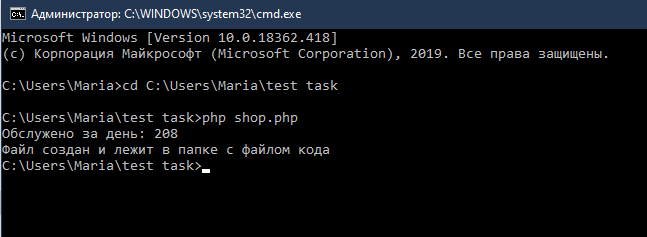
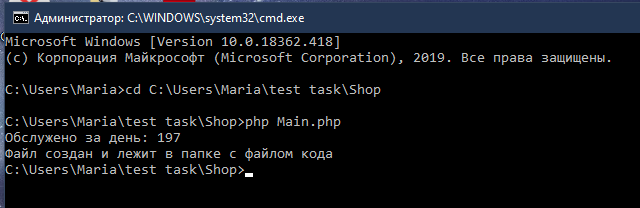
Проект разбит на классы и файлы. Количество покупателей в минуту может быть больше одного

Changed region(s): [[0.0, 0.0, 1.0, 1.0]]

diff --git a/Shop/Main.php b/Shop/Main.php
@@ -1,0 +1,55 @@
+<?php
+namespace Shop;
+include 'Constants.php';
+include 'Customer_flow.php';
+include 'Customer.php';
+include 'Log.php';
+
+$customer_flow = Customer_flow::get_customer_flow();									//генерируется поток покупателей
+
+for($current_time = 1; $current_time <= 60 * DURATION_OF_WORKING_DAY; $current_time++)	//каждая итерация == минута рабочего дня
+{
+    $total_customers_per_minute = array_shift($customer_flow);							//сколько покупателей придет в текущую минуту
+    
+	for($i = 0; $i < $total_customers_per_minute; $i++)									//создается и инициализируется покупатель
+	{
+		$customer = new Customer(rand(1, 5));											
+		++$total_customers_per_day;														
+		$customer->initialize($kassir, $customer);
+	}
+	
+	for($id = 0; $id < count((array)$kassir); $id++)									//перебираются все кассиры	
+	{
+		if($kassir[$id]->queue)															//если очередь не пустая
+		{
+			if((!$kassir[$id]->serves && !$kassir[$id]->expects) || 
+			   ($kassir[$id]->serves == $current_time) || 
+			   $kassir[$id]->expects)
+			{
+				$first_in_queue = array_shift($kassir[$id]->queue);						//кассир берет первого покупателя из очереди
+				$kassir[$id]->expects = 0;												//касса не в режиме ожидания
+				//высчитывается время обслуживания + текущее
+				$kassir[$id]->serves = $first_in_queue->number_of_goods * PICK + TIME_TO_GET_PAY + $current_time;
+			}
+		}
+		else													
+		{
+			if($kassir[$id]->serves == $current_time)
+			{
+				$kassir[$id]->expects = TIMEOUT + $current_time;						//высчитывается время ожидания покупателей	
+				$kassir[$id]->serves = 0;
+			}
+			if($kassir[$id]->expects == $current_time)					
+			{
+				array_splice($kassir, $id, 1);						
+			}
+		}
+	 }
+	
+	if(!($current_time % 60))															//каждый час выводится текущий результат
+	{
+        Log::output($current_time, $kassir);
+	}
+}
+echo "Обслужено за день: ", $total_customers_per_day, "\nФайл создан и лежит в папке с файлом кода";
+?>

diff --git a/Shop/Customer_flow.php b/Shop/Customer_flow.php
@@ -1,0 +1,32 @@
+<?php
+namespace Shop;
+
+include 'Constants.php';
+
+class Customer_flow
+{
+	const MAX_N_CUSTOMERS_PER_MINUTE = 1;
+
+	function get_customer_flow()
+	{
+		$part1 = Customer_flow::generate_exponential_array();			//генерируется массив для первой половины дня
+		$temp = Customer_flow::generate_exponential_array();			//генерируется массив для второй половины дня
+		$part2 = array_reverse($temp);									//реверсируется массив для второй половины дня, чтобы значения убывали
+		return array_merge_recursive($part1, $part2);					//соединяются массивы и возвращаются
+	}
+	
+	//генерируется случайная величина по закону экспоненциального распределения
+	//затем проверяется есть ли в массиве элемент с таким порядковым номером
+	function generate_exponential_array()
+	{
+		for ($minute = 0; $minute < 60 * DURATION_OF_WORKING_DAY/2; $minute++)
+		{
+			$exponential_value = (int) (100 * log(rand(3, 500)));						
+			$temp[$exponential_value] = isset($temp[$exponential_value]) ? 1 : 0;
+			$exponential_array[] = $temp[$exponential_value] * rand(1,self::MAX_N_CUSTOMERS_PER_MINUTE);
+		}
+		return $exponential_array;
+	}
+}
+
+?>

diff --git a/Shop/Customer.php b/Shop/Customer.php
@@ -1,0 +1,43 @@
+<?php
+namespace Shop;
+include 'Constants.php';
+include 'Kassir.php';
+
+class Customer
+{
+    public $number_of_goods;									//сколько покупатель набрал продуктов
+    
+    function __construct($number)
+    {
+        $this->number_of_goods = $number;
+    }
+	
+	function initialize(&$kassir, $customer)
+	{
+		if($kassir)	
+		{
+			usort($kassir, function($kassir1,$kassir2)			//массив касс сортируется по возрастанию кол-ва чел. в очереди
+			  {
+				  if(count($kassir1->queue) == count($kassir2->queue)) return 0;
+				  return (count($kassir1->queue) > count($kassir2->queue)) ? 1 : -1;
+			  });
+		}
+
+		//если есть место в очереди или работают все кассы
+		if(count((array)$kassir[0]->queue) < TOTAL_IN_QUEUE || 
+		   count($kassir) == TOTAL_KASS)
+		{
+			$kassir[0]->queue[] = $customer;					
+		}
+
+		//если не все кассы работают
+		if((count($kassir[0]->queue) >= TOTAL_IN_QUEUE && count($kassir) < TOTAL_KASS) || 
+		   !$kassir)
+		{
+			$kassa = new Kassir($customer);
+    		$kassir[] = $kassa;						
+		}
+	}
+}
+
+?>

diff --git a/Shop/Log.php b/Shop/Log.php
@@ -1,0 +1,33 @@
+<?php
+namespace Shop;
+
+class Log
+{		
+	//вывод инф. о состояниях магазина в файл
+	function output($current_time, $kassir)
+	{
+		$filename = 'report.txt';												
+		$fd = fopen($filename, 'a') or die("Не удалось создать/открыть файл");
+
+		fwrite($fd, $current_time."\n");											//для лога по минутам (тек.минута)
+		//fwrite($fd, ($current_time/60)." час\n");									//для лога по часам (тек.час)
+		if($kassir)													
+		{
+			for($id=1; $id<=count($kassir); $id++)									//перебираются все кассы
+			{
+				//для лога по часам:
+				//fwrite($fd, "Касса ".$id.". В очереди: ".count($kassir[$id-1]->queue)." чел.\n");	
+
+				//для лога по минутам:
+				fwrite($fd, $id.". ".$kassir[$id-1]->serves." ".$kassir[$id-1]->expects." ".count($kassir[$id-1]->queue)."\n");
+			}
+		}
+		else
+		{
+			fwrite($fd, "Все кассы закрыты");
+		}
+		fwrite($fd, "\n");
+		fclose($fd);								
+	}
+}
+?>

diff --git a/Shop/Constants.php b/Shop/Constants.php
@@ -1,0 +1,11 @@
+<?php
+namespace Shop;
+
+const DURATION_OF_WORKING_DAY = 8;     	//длительность рабочего дня (в часах)
+const TOTAL_KASS = 3;    				//кол-во касс в магазине
+const TOTAL_IN_QUEUE = 5;   			//кол-во человек в очереди
+const PICK = 1;							//время на пробивку товара (в мин)
+const TIME_TO_GET_PAY = 2;   			//время на оплату товара (в мин)
+const TIMEOUT = 5;						//сколько кассир ожидает покупателей (в мин)
+
+?>

diff --git a/Shop/Kassir.php b/Shop/Kassir.php
@@ -1,0 +1,16 @@
+<?php
+namespace Shop;
+
+class Kassir
+{
+    public $serves = 0;			//до какой минуты обслуживается покупатель
+    public $expects = 0;		//до какой минуты простаивает касса
+    public $queue = [];			//очередь в кассу
+	
+	function __construct($customer)
+    {
+        $this->queue[] = $customer;
+    }
+}
+
+?>

diff --git a/README.md b/README.md
@@ -19,6 +19,6 @@
 
 1. Запустить командную строку (Win+R -> cmd)
 2. Ввести "cd путь_до_скрипта"
-3. Ввести "php имя_скрипта.php"
+3. Ввести "php Main.php"
 
 ![](https://github.com/kalina-iva/Queue-in-the-store/blob/master/images/%D0%BA%D0%BE%D0%BD%D1%81%D0%BE%D0%BB%D1%8C.png)
